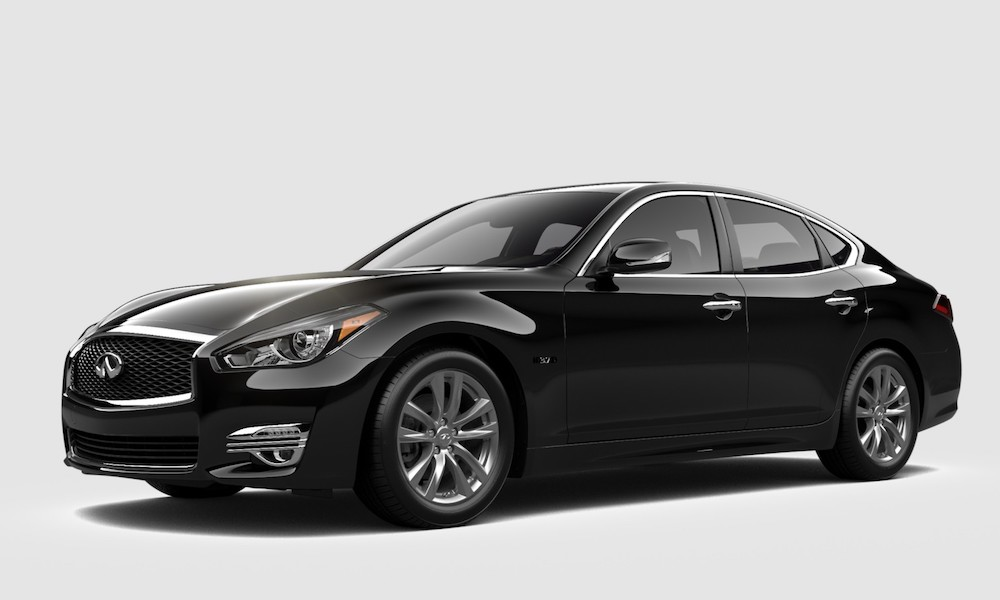
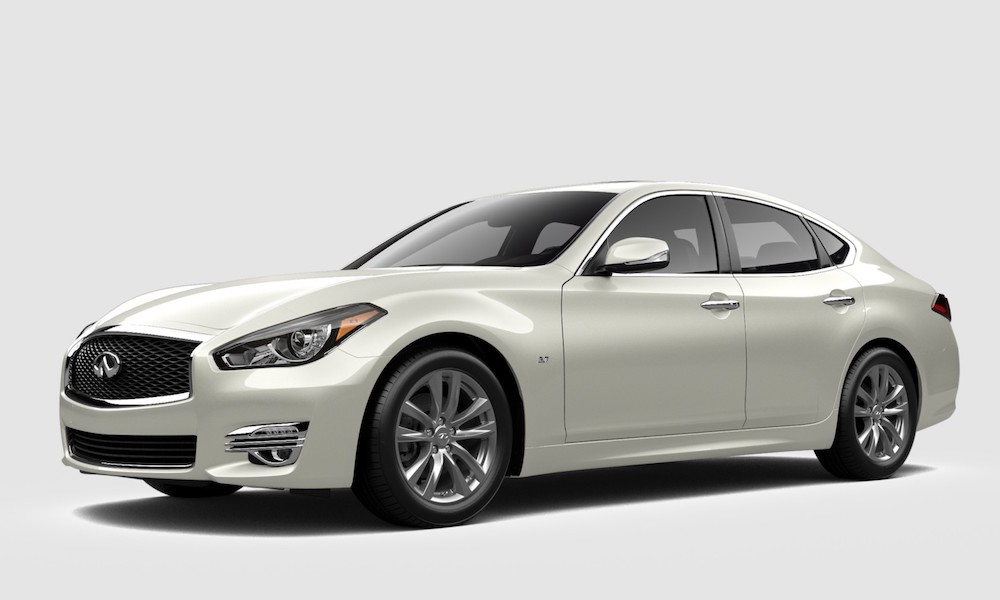
Add vehicle color images for QX30

diff --git a/client/kiosk/src/js/app.js b/client/kiosk/src/js/app.js
@@ -7,7 +7,7 @@ const modelsArr = ['Q50', 'Q70', 'QX30', 'QX50', 'QX80'];
 const modelColors = {
   Q50: ['Majestic White', 'Hermosa Blue', 'Liquid Platinum', 'Black Obsidian', 'Graphite Shadow'],
   Q70: ['Majestic White', 'Hermosa Blue', 'Liquid Platinum', 'Black Obsidian', 'Graphite Shadow'],
-  QX30: ['Majestic White', 'Hermosa Blue', 'Liquid Platinum', 'Black Obsidian', 'Graphite Shadow'],
+  QX30: ['Graphite Shadow', 'Black Obsidian', 'Magnetic Red', 'Majestic Red', 'Chestnut Bronze', 'Ink Blue'],
   QX50: ['Majestic White', 'Hermosa Blue', 'Liquid Platinum', 'Black Obsidian', 'Graphite Shadow'],
   QX70: ['Majestic White', 'Hermosa Blue', 'Liquid Platinum', 'Black Obsidian', 'Graphite Shadow']
 };
@@ -54,4 +54,8 @@ function resetFlipster(model) {
   // Reset flipster so it jumps to the middle index
   myFlipster.flipster('jump', middleIndex);
 }
+
+/* ====-====-====-====-====
+         Results Page
+   ====-====-====-====-==== */
 
